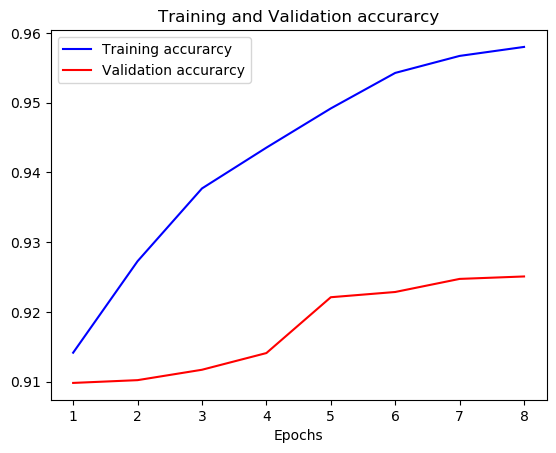
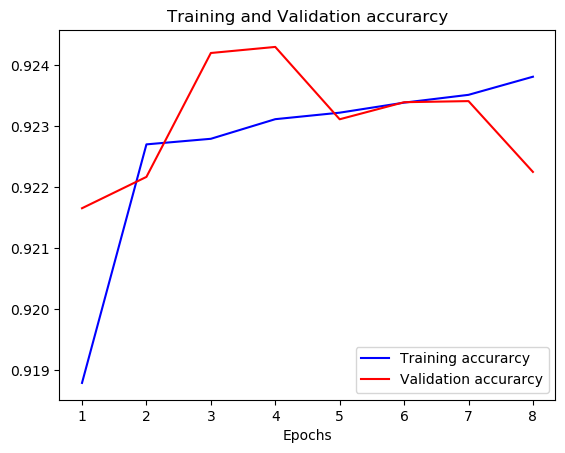
Removed the Embedding layer because it was a bottleneck

diff --git a/nlp/rnn_model.py b/nlp/rnn_model.py
@@ -1,11 +1,11 @@
-
+import tensorflow as tf
 from keras import Sequential
 from keras import initializers
 from keras.optimizers import Adam
 from keras.layers import Dense, GRU, Bidirectional, Embedding,\
     Reshape, Lambda, Dropout, BatchNormalization, Activation
+from keras_layer_normalization import LayerNormalization
 from keras.preprocessing.sequence import pad_sequences
-import tensorflow as tf
 import helpers
 from keras.regularizers import l2
 import numpy as np
@@ -25,14 +25,14 @@ dropout_amount = 0.1
 def add_bidirectional(model):
     model.add(Bidirectional(GRU(64, return_sequences=True,
                             kernel_initializer=my_init)))
-    model.add(BatchNormalization())     # add BN before non-linearity
+    model.add(LayerNormalization())     # add BN before non-linearity
     model.add(Activation('relu'))
     return model
 
 
 def add_dense(model):
     model.add(Dense(32, kernel_initializer=my_init))
-    model.add(BatchNormalization())
+    model.add(LayerNormalization())
     model.add(Activation('relu'))
     return model
 
@@ -49,22 +49,29 @@ def custom_loss(y_true, y_pred):
 
 def create_model(word_index_len, embedding_matrix, embedding_dim, sen_len=20):
     model = Sequential()
-    embedding_layer = Embedding(input_dim=word_index_len + 1,
-                                output_dim=embedding_dim,
-                                mask_zero=True,
-                                input_shape=(None, sen_len),
-                                trainable=True, weights=[embedding_matrix])
-    model.add(embedding_layer)
-    model.add(Lambda(lambda x: x, output_shape=lambda s: s))
+    # embedding_layer = Embedding(input_dim=word_index_len + 1,
+    #                             output_dim=embedding_dim,
+    #                             mask_zero=True,
+    #                             input_shape=(None, sen_len),
+    #                             # trainable=True, weights=[embedding_matrix])
+    #                             trainable=True)
+    # model.add(embedding_layer)
+    # model.add(Lambda(lambda x: x, output_shape=lambda s: s))
 
-    # -1 stands for shape inference
-    model.add(Reshape((-1, sen_len * embedding_dim)))
+    # # -1 stands for shape inference
+    # model.add(Reshape((-1, sen_len * embedding_dim)))
+
+    model.add(Bidirectional(GRU(64, return_sequences=True,
+                            kernel_initializer=my_init),
+                            input_shape=(None, sen_len)))
+    model.add(LayerNormalization())     # add BN before non-linearity
+    model.add(Activation('relu'))
 
     model = add_bidirectional(model)
     model = add_bidirectional(model)
     model = add_bidirectional(model)
 
-    model = add_dense(model)
+    # model = add_dense(model)
 
     # output probability that current sentence starts a new segment
     model.add(Dense(1, activation="sigmoid"))

diff --git a/nlp/nlp.py b/nlp/nlp.py
@@ -4,7 +4,6 @@ from keras.preprocessing.text import Tokenizer
 import constants
 import numpy as np
 import os
-import gc
 # import random
 from text_preprocessing import split_text_into_sentences, parse_sentence
 from tensorflow.keras.models import load_model
@@ -23,11 +22,12 @@ def train_model(batch_size, num_epochs, validation_split,
         tokenizer, embedding_matrix, embedding_dim,
         num_docs):
     print("Creating model...")
-    model = rnn_model.create_model(
-        len(tokenizer.word_index),
-        embedding_matrix, embedding_dim)
+    # model = rnn_model.create_model(
+    #     len(tokenizer.word_index),
+    #     embedding_matrix, embedding_dim)
+    model = rnn_model.create_model(None, None, 1)
     print("Finished creating model")
-    print(model.summary())
+    # print(model.summary())
     # history = rnn_model.train_model_generator(x_tr, y_tr, x_val, y_val, batch_size, model, num_epochs,
                                             #   save_model_path, num_docs)
     history = rnn_model.train_model_generator(batch_size, model, num_epochs,
@@ -65,22 +65,26 @@ def evaluate_model(text, tokenizer, sen_pad_len,
 
 
 if __name__ == "__main__":
-    num_docs = 100000
+    num_docs = 300000
     num_in_path = helpers.abbreviate_num_to_str(num_docs)
     save_model_path = "saved_models/model" + str(num_docs) + ".h5"
     read_docs_path = "extracted/wiki_727K"
-    # y_tr, y_tst, list_of_all_words, sentence_document_mapping, avg_sen_len = \
-    #     data_operations.read_docs(read_docs_path, num_docs)
+    y_tr, y_tst, list_of_all_words, sentence_document_mapping, avg_sen_len = \
+        data_operations.read_docs(read_docs_path, num_docs)
+    exit()
     list_of_all_words = data_operations.load_from_path(f'list_of_all_words_{num_in_path}.pkl')
     # list_of_all_words = data_operations.load_from_path(f'list_of_all_words_10k.pkl')
 
     # tokenizer_path = f'tokenizer_{num_in_path}.pkl'
-    tokenizer_path = f'tokenizer_1k.pkl'
-    tokenizer = data_operations.get_tokenizer(tokenizer_path, list_of_all_words)
+    tokenizer_path = f'tokenizer_100k.pkl'
+    num_words_to_keep = 1000
+    # tokenizer = data_operations.get_tokenizer(tokenizer_path, list_of_all_words, num_words_to_keep)
+    tokenizer = None
 
     embedding_dim = 100
-    embedding_matrix = helpers.calculate_embedding_matrix(
-        tokenizer.word_index, embedding_dim)
+    # embedding_matrix = helpers.calculate_embedding_matrix(
+    #     tokenizer.word_index, embedding_dim)
+    embedding_matrix = None
     print(f'Tokenizer size: {getsizeof(tokenizer)} bytes')
     print(f'Embedding matrix size: {getsizeof(embedding_matrix) / 1000000} MB')
 

diff --git a/nlp/data_operations.py b/nlp/data_operations.py
@@ -3,7 +3,6 @@ from text_preprocessing import parse_sentence
 import pickle
 import helpers
 from keras.preprocessing.text import Tokenizer
-import gc
 import numpy as np
 from keras.preprocessing.sequence import pad_sequences
 
@@ -156,14 +155,16 @@ def load_x_y(path):
     return np.array(x), np.array(y)
 
 
-def get_tokenizer(path, list_of_all_words):
+def get_tokenizer(path, list_of_all_words, num_words_to_keep):
     tokenizer = load_from_path(path)
     if tokenizer is None:
         # convert strings to numbers
+        # tokenizer = Tokenizer(num_words=num_words_to_keep)
         tokenizer = Tokenizer()
         print("Fitting tokenizer...")
         tokenizer.fit_on_texts(list_of_all_words)
         print("Finished fitting tokenizer")
+        print(f'Tokenizer word index len: {len(tokenizer.word_index)}')
         dump_to_path(tokenizer, path)
     return tokenizer
 
@@ -183,7 +184,6 @@ def process_loaded_docs(y_tr, y_tst, list_of_all_words, sentence_document_mappin
     """
     sequences = tokenizer.texts_to_sequences(list_of_all_words)
     del list_of_all_words
-    gc.collect()
 
     sen_pad_len = avg_sen_len + 5
 
@@ -195,7 +195,6 @@ def process_loaded_docs(y_tr, y_tst, list_of_all_words, sentence_document_mappin
     x_tr, x_tst = sequences[:len(y_tr)], sequences[len(y_tr):]
 
     del sequences
-    gc.collect()
 
     # group training data as documents
     documents_x_tr, documents_y_tr = [], []
@@ -227,7 +226,7 @@ def process_loaded_docs(y_tr, y_tst, list_of_all_words, sentence_document_mappin
             curr_doc_y.append(y_tst[i])
 
     del sentence_document_mapping
-    gc.collect()
+
 
     documents_x_tr[-1].append(x_tr[-1])
     documents_x_tst[-1].append(x_tst[-1])
@@ -250,7 +249,6 @@ def process_loaded_docs(y_tr, y_tst, list_of_all_words, sentence_document_mappin
     del documents_y_tst
     del curr_doc_x
     del curr_doc_y
-    gc.collect()
 
     cutoff_point = round(0.8*len(x_tr))
     x_val = x_tr[cutoff_point:]
